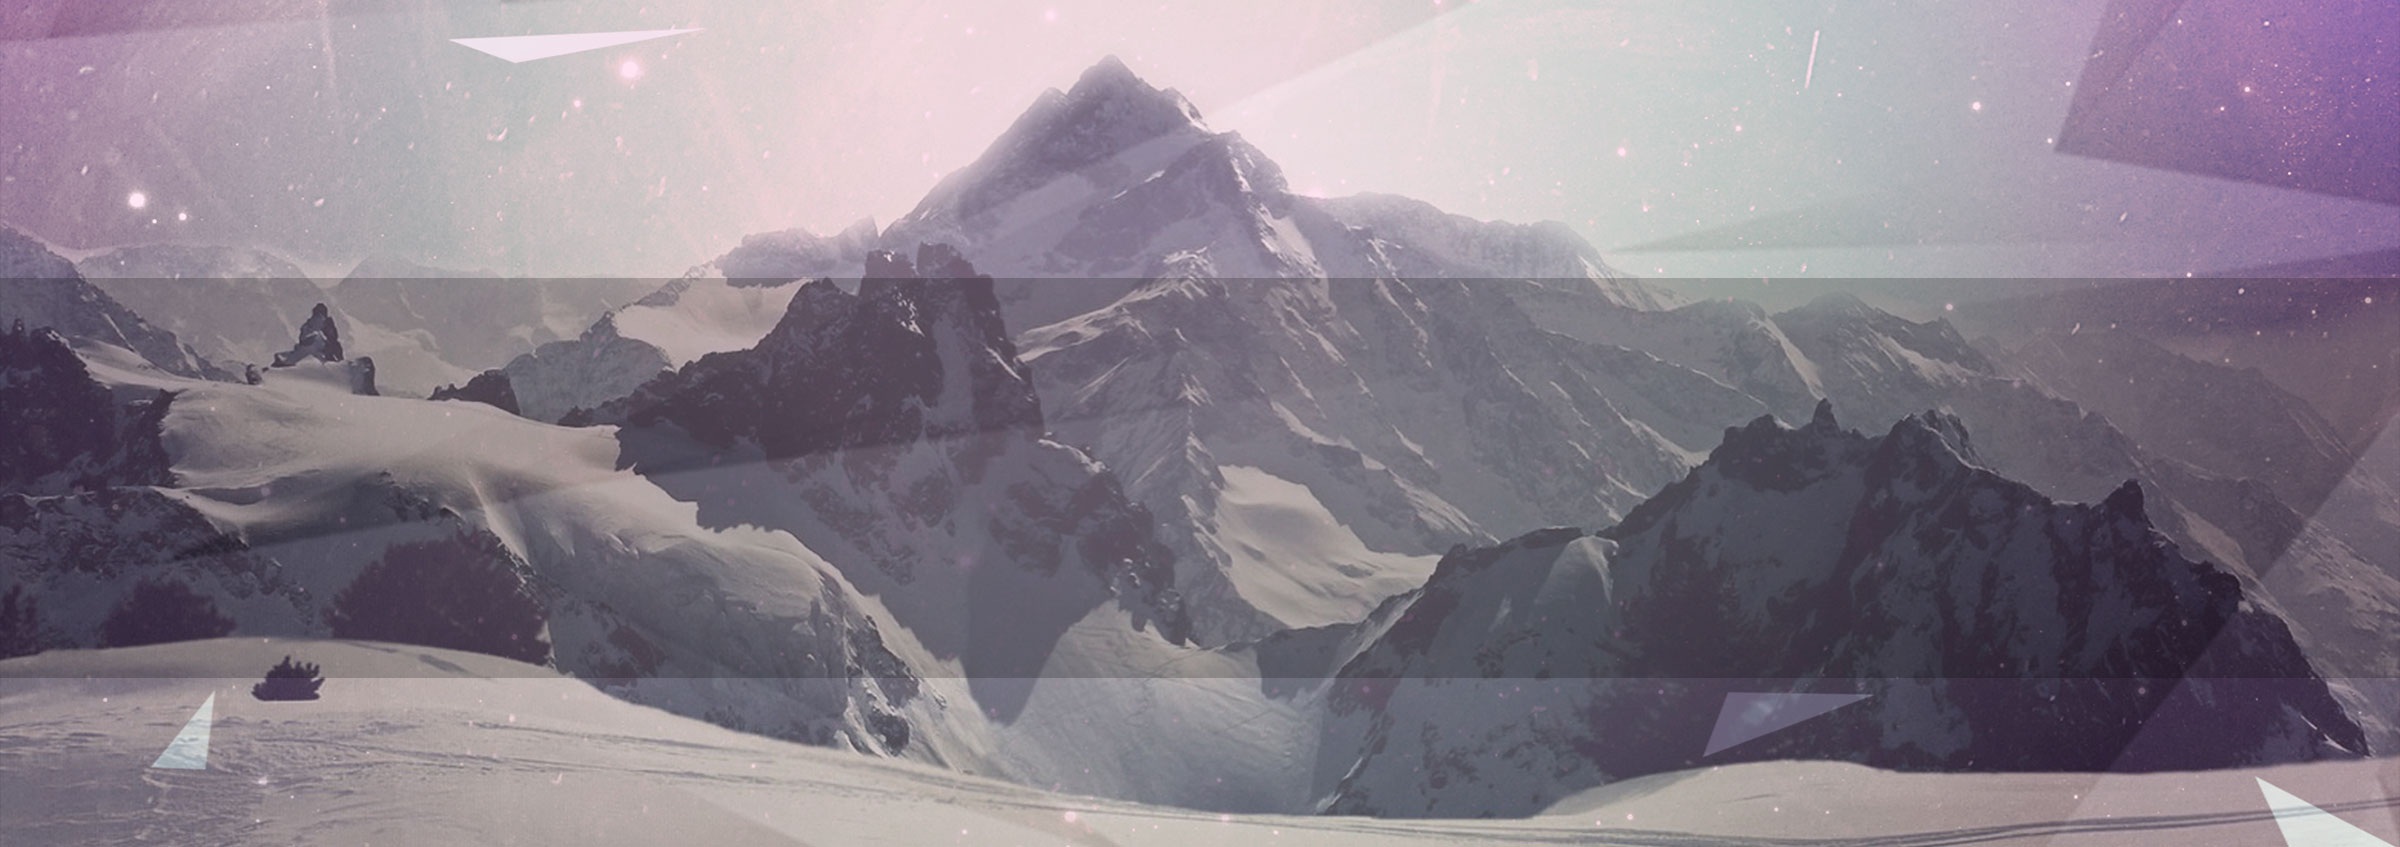
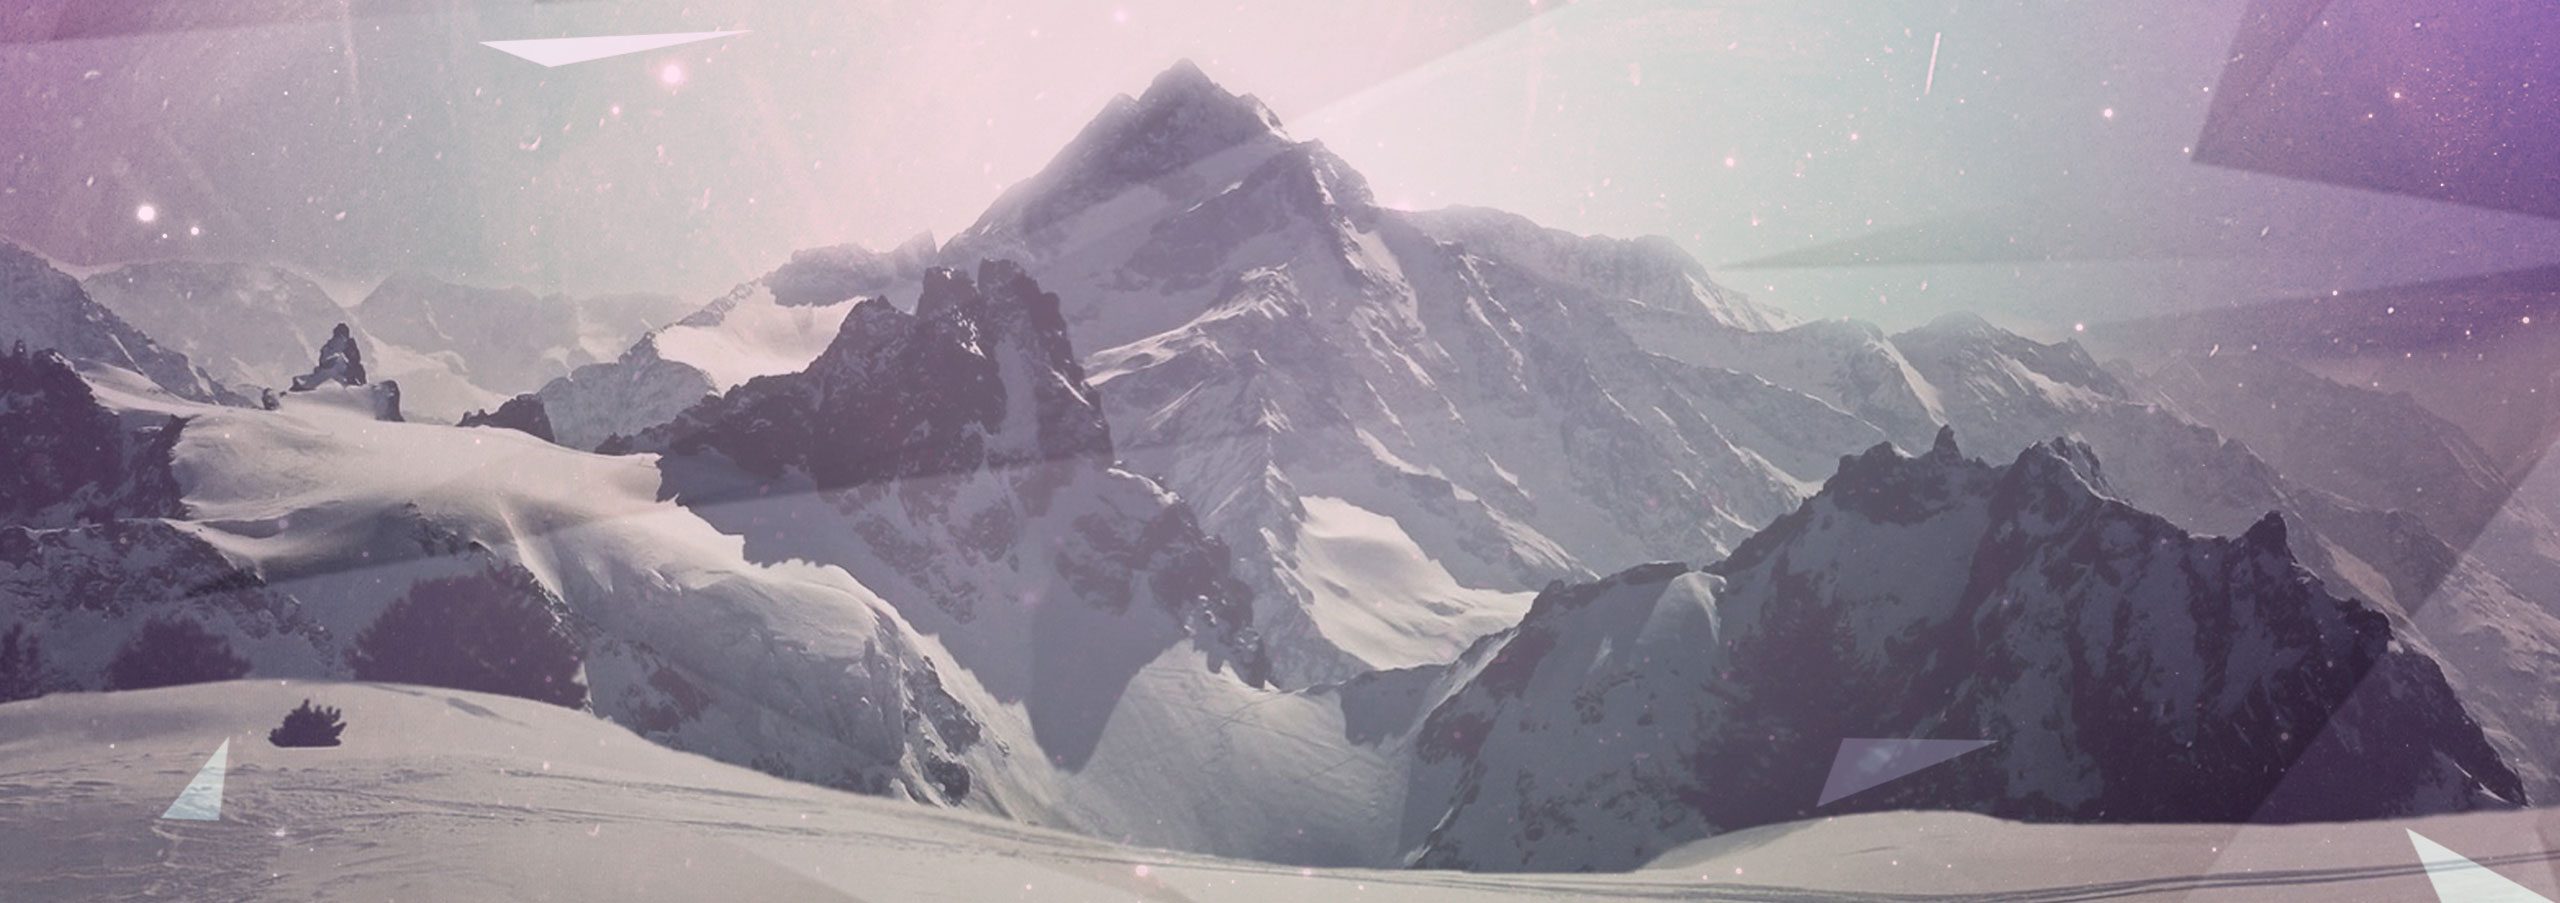
Change background; style grey layer in css

diff --git a/css/style.css b/css/style.css
@@ -91,7 +91,9 @@ body {
 /* slider */
 
 .slider {
-    height: 491px;
+    margin-bottom: 168px;
+    height: 401px;
+    background: rgba(0, 0, 0, .2);
 }
 
 .entity {
@@ -110,7 +112,8 @@ body {
 .slider__entity {
     position: relative;
     width: 960px;
-    margin: 79px auto;
+    margin: 0 auto;
+    padding: 79px 0;
     box-sizing: border-box;
 }
 
@@ -137,8 +140,8 @@ body {
 
 .slider__media {
     position: absolute;
-    top: -95px;
-    left: 617px;
+    top: -16px;
+    left: 615px;
     z-index: 1;
 }
 
@@ -220,8 +223,8 @@ body {
 }
 
 .slider__switches {
-    margin: 174px auto;
     width: 622px;
+    margin: 93px auto;
 }
 
 .switches__plain-radio {
